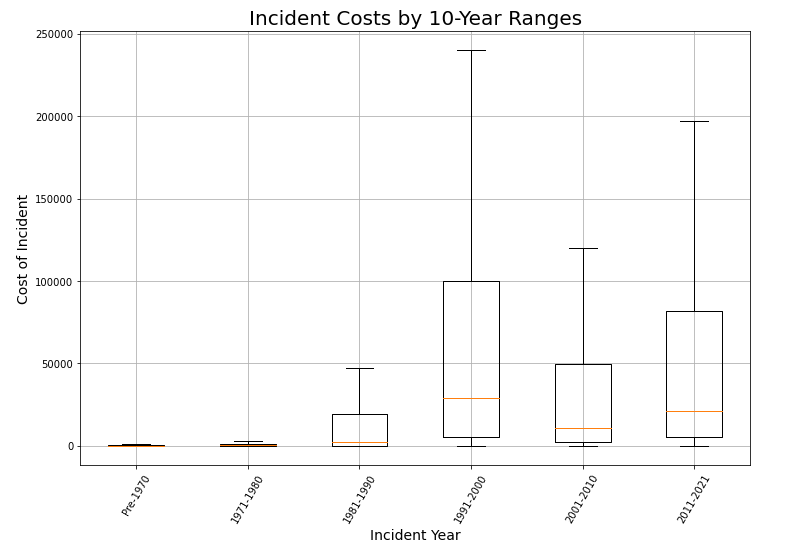
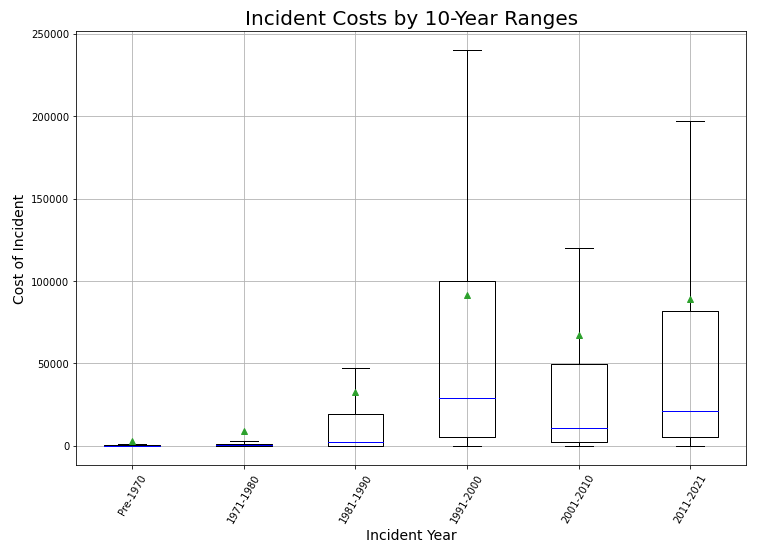
updating a boxplot to visually match the other

Changed region(s): [[0.0, 0.0, 0.9612, 0.9891], [0.7132, 0.4327, 0.7752, 0.4636], [0.7442, 0.5873, 0.7752, 0.6182]]

diff --git a/Analysis/Analysis.py b/Analysis/Analysis.py
@@ -119,7 +119,8 @@ fig, ax = plt.subplots(figsize=(12, 8))
 ax.set_title('Incident Costs by 10-Year Ranges', fontsize=20)
 ax.set_ylabel('Cost of Incident', fontsize=14)
 ax.set_xlabel('Incident Year', fontsize=14)
-ax.boxplot(year_data, labels=xlabels, showfliers=False, showmeans=True)
+ax.boxplot(year_data, labels=xlabels, showfliers=False, showmeans=True,
+           medianprops={"color": "blue", "linewidth": 1})
 plt.xticks(rotation=60)
 ax.grid()
 plt.show()
